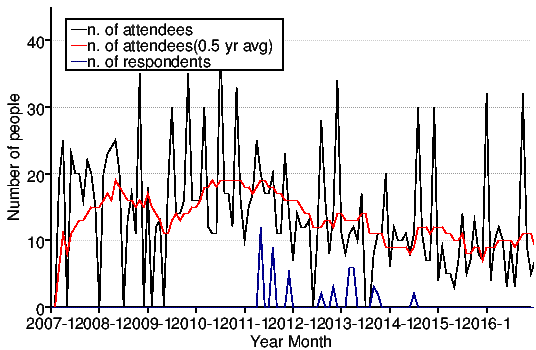
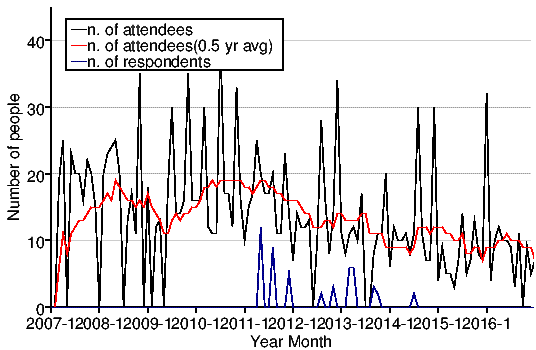
Update kansai 201612

Changed region(s): [[0.9254, 0.2857, 1.0, 0.8571], [0.4776, 0.1143, 0.5075, 0.1429], [0.2687, 0.1714, 0.2985, 0.2]]

diff --git a/debianmeetingresume201612-kansai.tex b/debianmeetingresume201612-kansai.tex
@@ -46,7 +46,7 @@
 
 % $BKh7nJQ99$9$kItJ,!"K\J8$NKvHx$b=$@5$9$k$3$H$r$o$9$l$:$K(B
 
- $BBh(B\debmtgnumber{118}$B2s(B $B4X@>(B Debian $BJY6/2q;qNA(B
+ $BBh(B\debmtgnumber{}$B2s(B $B4X@>(B Debian $BJY6/2q;qNA(B
 
 \vspace{2cm}
 
@@ -97,41 +97,145 @@
 
 \dancersection{$B:G6a$N(BDebian$B4X78$N%$%Y%s%HJs9p(B}{Debian JP}
 
+\subsection{$BBh(B115$B2s4X@>(BDebian$BJY6/2q(B}
+
+115$B2sL\$N4X@>(BDebian$BJY6/2q$O(B10$B7n(B23$BF|(B($BF|(B)$B$K9A6hL1%;%s%?!<$G3+:E$5$l$^$7$?!#(B
+
+$BFbMF$O:4!9LZ$5$s$K$h$k!V(Bsbuild $B$H(B debci $B$r?($C$F$_$?!W$G$7$?!#(B
+
 \subsection{$BBh(B116$B2s4X@>(BDebian$BJY6/2q(B @ KOF}
+
+116$B2sL\$N4X@>(BDebian$BJY6/2q$O(B11$B7n(B12$BF|(B($BEZ(B)$B$KBg:eFn9A(B ATC $B$G3+:E$5$l$?4X@>%*!<%W%s(B
+$B%U%)!<%i%`$K=PD%$7$^$7$?!#(B
 
 $B%V!<%9E8<($H:4!9LZ$5$s$K$h$k!V(BDebian update$B!W(B
 $BE8<($*Hh$lMM$G$7$?!#$46(NO$$$?$@$-$^$7$?3'MM$K46<U$$$?$7$^$9!#(B
 
-\dancersection{$B;vA02]Bj(B}{Debian JP}
+\subsection{$BBh(B145$B2sEl5~%(%j%"(BDebian$BJY6/2q(B  OSC 2016 Tokyo/Fall$B=PD%(B}
 
-\begin{itemize}
-\item 2016 $BG/$O$I$&$G$7$?$+!)(B
-\item 2017 $BG/$NL\I8$O!)(B
-\end{itemize}
+145$B2sL\$NEl5~%(%j%"(BDebian$BJY6/2q$O(B11$B7n(B5$BF|(B($BEZ(B)$B!"(B6$BF|(B($BF|(B)$B$KL@@1Bg3X(B $BF|Ln%-%c%s%Q%9$G(B
+$B3+:E$5$l$?(BOSC 2016 Tokyo/Fall $B$K=PD%$7$^$7$?!#(B
+
+$B4d>>$5$s$K$h$k!V(BDebian updates$B!W$HBj$7$?%;%C%7%g%s$H%V!<%9=PE8$,9T$J$o$l$^$7$?!#(B
+
+\subsection{$BBh(B146$B2sEl5~%(%j%"(BDebian$BJY6/2q(B}
+
+146$B2sL\$NEl5~%(%j%"(BDebian$BJY6/2q$O(B11$B7n(B19$BF|(B($BEZ(B)$B$K3t<02q<RD+F|%M%C%H$5$s$G3+:E$5$l$^(B
+$B$7$?!#(B
+
+$BFbMF$O(Byy\_y\_ja\_jp$B$5$s$K$h$k!V(Bdh\_strip\_nondeterminism$B!W$G$7$?!#(B
+
+\subsection{Mini Debian Conference Japan 2016}
+
+12$B7n(B10$BF|(B($BEZ(B)$B$K%5%$%\%&%:3t<02q<R$G(B Mini Debian Conference Japan 2016 $B$,3+:E$5$l$^(B
+$B$7$?!#(B
+
+\subsection{Debian Project}
+
+\subsubsection{Release update: Debian 9 'Stretch'}
+
+$B!V(BRelease update: Transition freeze and other upcoming events
+\footnote{\url{https://lists.debian.org/debian-devel-announce/2016/11/msg00002.html}}
+$B!W$GM=DjDL$j(B 11 $B7n(B 5 $BF|$K(B transition freeze $B$KF~$j$^$7$?!#$3$l0J9_!"?7$7$$%i%$%V(B
+$B%i%j$dB??t$N%Q%C%1!<%8$rI,MW$H$9$kJQ99$O<u$1IU$1$i$l$^$;$s!#(B
+
+$B$=$N8e!"!V(BBits from the Stable Release Managers
+\footnote{\url{https://lists.debian.org/debian-devel-announce/2016/11/msg00009.html}}
+$B!W$+$i$N0FFb$,$"$j!"!V(BRelease update: Mandatory 10 day delay for migrations and other
+upcoming events
+\footnote{\url{https://lists.debian.org/debian-devel-announce/2016/12/msg00000.html}}
+$B!W$G(B 12 $B7n(B 5 $BF|$+$i0\9T$,(B 5 $BF|$+$i(B 10 $BF|$K$J$j$^$7$?!#$3$N$"$H(B 1 $B7n(B 5 $BF|$K(B soft
+freeze $B$H$J$kM=Dj$G$9!#(B
+
+$BB>$K!"!V(BDebian Installer Stretch Alpha 8 release
+\footnote{\url{https://lists.debian.org/debian-devel-announce/2016/11/msg00006.html}}
+$B!W$H99?7$5$l!"%G%U%)%k%H%F!<%^$b(B softWaves
+\footnote{\url{https://wiki.debian.org/DebianArt/Themes/softWaves}} $B$K7h$^$j$^$7$?!#(B
+
+
+\subsubsection{Accepted global 6.5.5-0.1 (source amd64) into experimental}
+
+8 $BG/$H(B 6 $B%v7n?6$j$K(B global $B%Q%C%1!<%8$N%P!<%8%g%s$,>e$,$j$^$7$?!#(B
+
+$B%a%s%F%J$,;DG0$J7A$G$*$j$?$"$H(B
+\footnote{\url{https://packages.qa.debian.org/g/global/news/20161209T183610Z.html}}
+unstable $B$KF~$j$^$7$?$N$G!"(Bstretch $B$G$O?7$7$$%P!<%8%g%s$,;H$($k$3$H$G$7$g$&!#(B
+
+
+\dancersection{$B;vA02]Bj(B}{$B4X@>(BDebian$BJY6/2q(B}
+
+$B:#2s$O0J2<$N2]Bj$r=PBj$7$^$7$?!#(B
+\begin{screen}
+  \begin{enumerate}
+  \item 2016 $BG/$O$I$&$G$7$?$+!)(B
+  \item 2017 $BG/$NL\I8$O!)(B
+  \end{enumerate}
+\end{screen}
 
 $B;22C<T$N3'$5$s$O<!$NDL$j$G$9(B:
 
-\begin{prework}{ Yosuke OTSUKI }
-\begin{itemize}
-\item $B$"$s$^$j(B OSS  $B$N3hF0$G$-$J$+$C$?(B
-\item Debian $B$N4IM}<T$K$J$k!#%b%s%H%j%*!<%k9T$-$?$$!#(B
-\end{itemize}
+\begin{prework}{ t3rkwd }
+  \begin{enumerate}
+  \item $B$J$<$+4X@>$N%$%Y%s%H$K;22C$G$-$J$$G/$G$7$?!#(B
+  \item $B$^$:$O(B Stretch $B%j%j!<%9$K8~$1$F2?$+!#(B
+  \end{enumerate}
 \end{prework}
 
-%\dancersection{LibreOffice$B$N:G6a$NF08~$H(BDebian$B$G$N(BLibreOffice$B%Q%C%1!<%8$K$D$$$F(B}{$B1](B $B??<#(B}
+\begin{prework}{ Katsuki Kobayashi }
+  \begin{enumerate}
+  \item $BJY6/2q$X$N;22CN($O$=$3$=$34hD%$j$^$7$?$,!"7k6I(BDebian$B<+BN$NJY6/$O$"$^$j$7(B
+    $B$J$+$C$?$+$J$!!D!D$H!#(B
+  \item Debian$B$K$J$K$+$7$i(Bcontribute$B$7$F$$$-$?$$!#(B
+    ($B$^$:$O(BStretch$B$K$J$K$+$7$i9W8%$7$FJY6/2q$GH/I=(B?)
+  \end{enumerate}
+\end{prework}
 
-\dancersection{2015$BG/$N?6$jJV$j$H(B2016$BG/$N4k2h(B}{Debian JP}
+\begin{prework}{ uwabami }
+  \begin{enumerate}
+  \item $B%$%Y%s%H4XO"$KM>$j9W8%$G$-$J$+$C$?$N$,;DG0$G$7$?!#(B
+  \item $B$$$h$$$h(B Stretch $B$,%j%j!<%9$5$l$^$9$M!#(B
+  \end{enumerate}
+\end{prework}
+
+\begin{prework}{ ipv6waterstar }
+  \begin{enumerate}
+  \item $B$$$m$s$J0UL#$G!"7cF0$N0lG/$+$J!)(B
+  \item $B3$30N99T!"%Q%C%1!<%8$r:n$C$F$_$k!#(B
+  \end{enumerate}
+\end{prework}
+
+\begin{prework}{ Yosuke OTSUKI }
+  \begin{enumerate}
+  \item $B$"$s$^$j(B OSS  $B$N3hF0$G$-$J$+$C$?(B
+  \item Debian $B$N4IM}<T$K$J$k!#%b%s%H%j%*!<%k9T$-$?$$!#(B
+  \end{enumerate}
+\end{prework}
+
+\dancersection{2016$BG/$N?6$jJV$j$H(B2017$BG/$N4k2h(B}{Debian JP}
 
 2016$BG/$b:#7n$G:G8e$N4X@>(BDebian$BJY6/2q$K$J$j$^$9!#(B
-2007 $BG/#37n$,=i3+:E$J$N$G!"MhG/#37n$G(B 10 $B<~G/$G$9!#(B
+2007$BG/(B3$B7n$,=i3+:E$J$N$G!"MhG/(B3$B7n$G(B10$B<~G/$G$9!#(B
 
 \subsection{$BJY6/2qA4BN$K$D$$$F(B}
+
+\subsubsection{$B%;%C%7%g%s!"DjNc%M%?(B}
+
+2016$BG/A0H>$N%;%C%7%g%s$O:rG/Kv$N4k2h$K1h$C$F!V(BGNUHurd$B$N%$%s%9%H!<%k$7$F$_$?!#$H!"(B
+X$B%5!<%P$NN)$A>e$2$KD)@o!W!"!V(Bsystemd $B$K?;$+$C$F$_$k!W!"!V(BOpenFOAM $B$K$h$k?tCMN.BN(B
+$B2r@O!W$HH/I=$7$F$$$?$@$-$^$7$?!#(B
+
+$BB>$K$O!"!V(BVyOS $B$rF~$l$F(B AP $B$r9=C[$7$F$_$?!#!W!"!V<~2sCY$l$G(B Docker $B?($C$F$_$?!W!"(B
+$B!V(BLet$B!G(Bs Encrypt $B$N%9%9%a!W!"!V(Bsbuild $B$H(B debci $B$r?($C$F$_$?!W$N%;%C%7%g%sH/I=$b(B
+$B$7$F$$$?$@$-$^$7$?!#(B
+
+$BDjNc%M%?$H$7$F$O!"!V=i?4<T$,=i$a$F%Q%C%1!<%8$r$D$/$C$F$_$?!W$H%Q%C%1!<%8%s%0F;>l(B
+$B$r9T$J$&$3$H$,$G$-$^$7$?!#(B
 
 \subsection{$B1?1D(B}
 
 $B1?1D$K4X$7$F$O!"Kh7n$N7QB3$7$?3+:E$O9T$J$C$F$-$F$$$^$7$?!#(B
 
-Doorkeeper $B$NM-NA2=$K$h$j(B Connpass $B$K0\9T$7$^$7$?!#(B
+Doorkeeper $B$NM-NA2=$K$h$j(B connpass $B$K0\9T$7$^$7$?!#(B
 
 $B:rG/$KB3$-!";vA0$N=`Hw!"9pCN$,IT==J,$J>l9g$,$"$j$^$7$?$N$G!":#8e$O!"Dj7?$N9pCN$r(B
 $B@h$KEj$2$k$J$I!"2~A1$7$F$$$-$?$$$H9M$($F$$$^$9!#(B
@@ -173,19 +277,19 @@ Debian$B3+H/<T$X$NF;!"$H$7$F$3$3$7$P$i$/4X@>(BDebian$BJY6/2q$+$i$OF0$-$,$"$j$
         \hline
         $B3+:EG/7n(B  & $B;22C?M?t(B & $BFbMF(B \\
         \hline
-        2016$BG/(B1$B7n(B &12     & GNUHurd$B$N%$%s%9%H!<%k$7$F$_$?!#$H!"(BX$B%5!<%P$NN)$A>e$2$KD)@o(B \\
+        2016$BG/(B1$B7n(B & 12    & GNUHurd$B$N%$%s%9%H!<%k$7$F$_$?!#$H!"(BX$B%5!<%P$NN)$A>e$2$KD)@o(B \\
                   &       & VyOS$B$rF~$l$F(BAP$B$r9=C[$7$F$_$?!#(B\\
-        2016$BG/(B2$B7n(B &       & $BJY6/2q;qNA$NJb$-J}(B \\
-                  &       & $B<~2sCY$l$G(BDocker$B?($C$F$_$?(B \\  
-        2016$BG/(B3$B7n(B &       & systemd $B$K?;$+$C$F$_$k(B \\
-        2016$BG/(B4$B7n(B &       & OpenFOAM $B$K$h$k?tCMN.BN2r@O(B \\
-        2016$BG/(B5$B7n(B &       & $B%i%$%H%K%s%0%H!<%/(B \& $B$b$/$b$/$N2q(B  \\
-        2016$BG/(B6$B7n(B &       & Debian $B%Q%C%1!<%8%s%0F;>l(B\\
+        2016$BG/(B2$B7n(B & 10    & $BJY6/2q;qNA$NJb$-J}(B \\
+                  &       & $B<~2sCY$l$G(BDocker$B?($C$F$_$?(B \\
+        2016$BG/(B3$B7n(B & 10    & systemd $B$K?;$+$C$F$_$k(B \\
+        2016$BG/(B4$B7n(B & 9     & OpenFOAM $B$K$h$k?tCMN.BN2r@O(B \\
+        2016$BG/(B5$B7n(B & 3     & $B%i%$%H%K%s%0%H!<%/(B \& $B$b$/$b$/$N2q(B  \\
+        2016$BG/(B6$B7n(B & 11    & Debian $B%Q%C%1!<%8%s%0F;>l(B\\
         2016$BG/(B7$B7n(B &       & OSC 2016 @ Kyoto \\
-        2016$BG/(B8$B7n(B &       & $B%i%$%H%K%s%0%H!<%/(B \& $B$b$/$b$/$N2q(B \\
-        2016$BG/(B9$B7n(B &       & $B=i?4<T$,=i$a$F%Q%C%1!<%8$r$D$/$C$F$_$?(B \\
+        2016$BG/(B8$B7n(B & 9     & $B%i%$%H%K%s%0%H!<%/(B \& $B$b$/$b$/$N2q(B \\
+        2016$BG/(B9$B7n(B & 5     & $B=i?4<T$,=i$a$F%Q%C%1!<%8$r$D$/$C$F$_$?(B \\
                   &       & Let's Encrypt$B$N%9%9%a(B \\
-        2016$BG/(B10$B7n(B&       & sbuild $B$H(B debci $B$r?($C$F$_$?(B \\
+        2016$BG/(B10$B7n(B& 7     & sbuild $B$H(B debci $B$r?($C$F$_$?(B \\
         2016$BG/(B11$B7n(B&       & KOF 2016 \\
         2016$BG/(B12$B7n(B&       & 2016$BG/$N?6$jJV$j$H(B2017$BG/$N4k2h(B, $BK:G/2q(B \\
         \hline
@@ -392,15 +496,23 @@ Debian$B3+H/<T$X$NF;!"$H$7$F$3$3$7$P$i$/4X@>(BDebian$BJY6/2q$+$i$OF0$-$,$"$j$
 \begin{itemize}
     \item 1 $B7n(B OSC 2017 @ Osaka
     \item 7 $B7n(B OSC 2017 @ Kyoto
-    \item 11 $B7n(B KOF 2017 
+    \item 11 $B7n(B KOF 2017
 \end{itemize}
+
+\subsection{$B4X@>(BDebian$BJY6/2q(B}
+$B<!2s!"Bh(B118$B2s4X@>(BDebian$BJY6/2q$O(B1$B7n(B29($BF|(B)$B$K9A6hL1%;%s%?!<$G3+:EM=Dj$G$9!#(B
+
+$BFbMF$O(B openSUSE / LILO\&$BEl3$F;$i$0(B $B$H9gF13+:E$H$J$C$F$$$^$9!#(B
+
+\subsection{$BEl5~%(%j%"(BDebian$BJY6/2q(B}
+$B<!2s!"Bh(B147$B2sEl5~%(%j%"(BDebian$BJY6/2q$O(B1$B7n(B21$BF|(B($BEZ(B)$B$K3+:EM=Dj$G$9!#(B
 
 
 %
 % $B:};R$K$9$k$?$a$K!"(B4$B$NG\?t$K$9$kI,MW$,$"$k!#(B
 % $B$=$N$?$a$ND4@0(B
-%% \dancersection{$B%a%b(B}{}
-%% \mbox{}\newpage
+\dancersection{$B%a%b(B}{}
+\mbox{}\newpage
 %% \mbox{}\newpage
 %% \mbox{}\newpage
 
